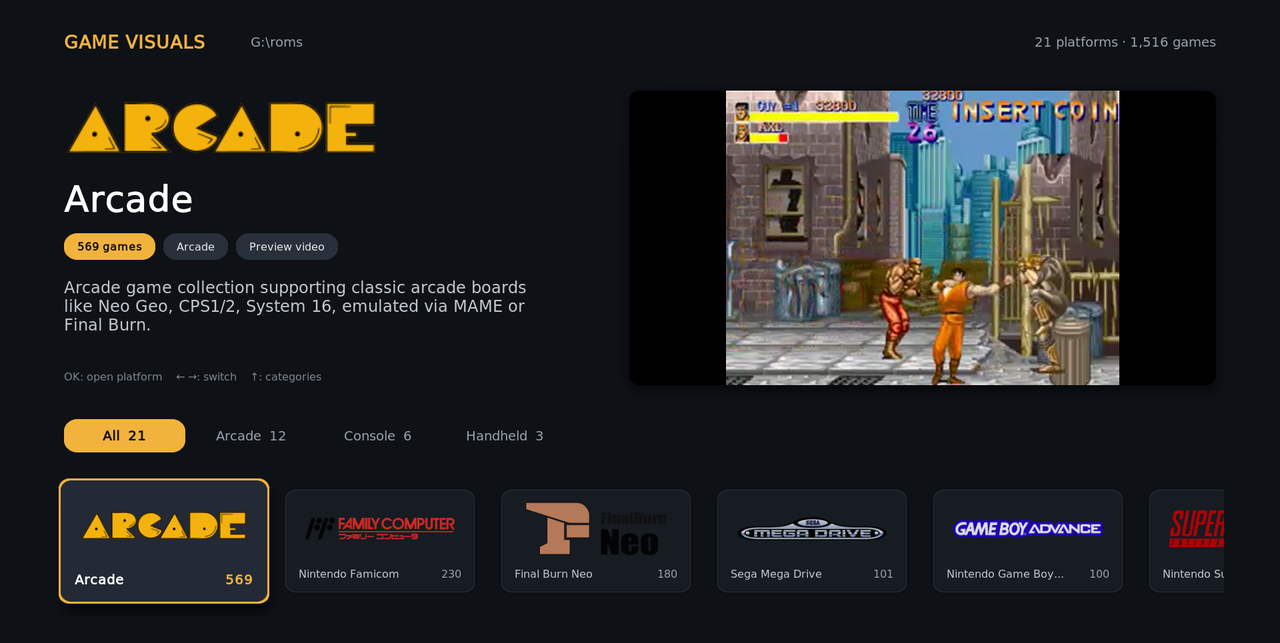
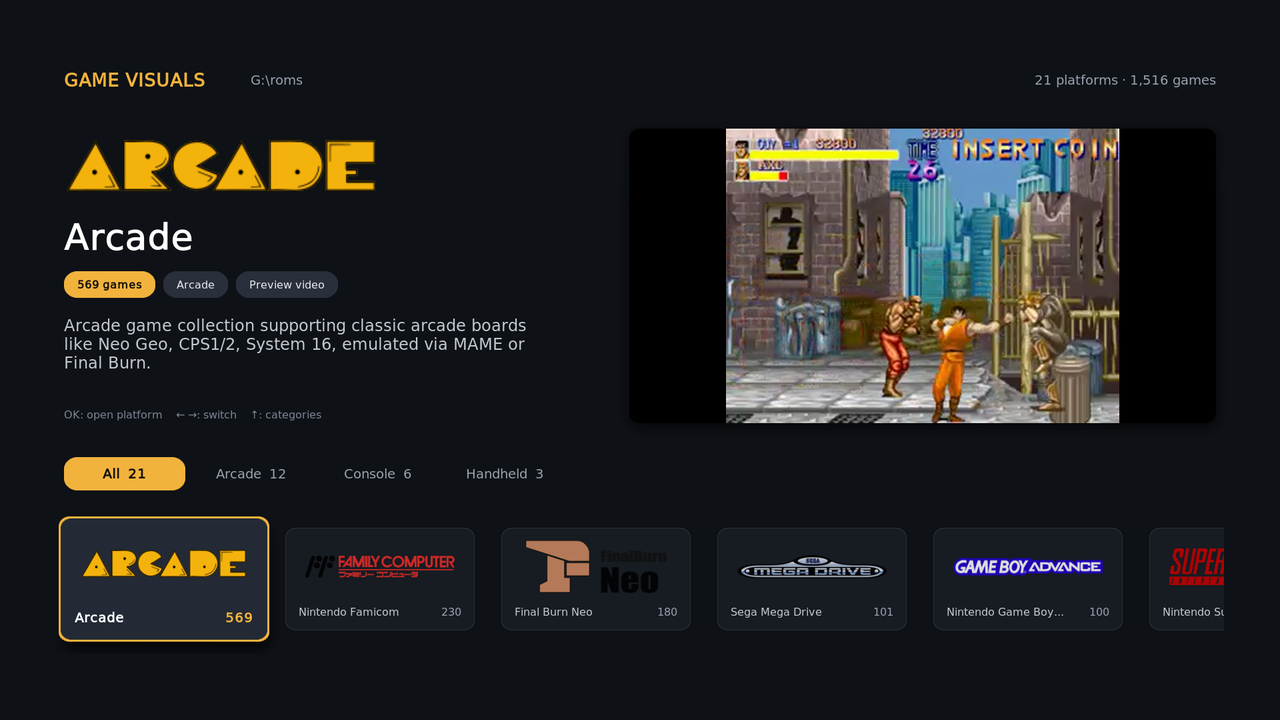
Keep platform screen responsive on slow drives
- Read a platform's images/videos folders outside the preview lock, so
  OK/Back no longer wait on slow USB reads.
- Show a cancellable progress dialog while scanning platforms.
- Pad platforms.png to 1280x720 to pass kodi-addon-checker.

diff --git a/resources/lib/platform_window.py b/resources/lib/platform_window.py
@@ -34,6 +34,14 @@ def list_media(directory, exts):
         return []
 
 
+def read_media(path):
+    """读取平台的截图和视频目录，U 盘上较慢，所以第一次停在这个平台上时才读"""
+    images_dir = os.path.join(path, "images")
+    # 有的 gamelist 把预览视频也放在 images 目录里（xxx-video.mp4）
+    return (list_media(images_dir, IMAGE_EXTS),
+            list_media(os.path.join(path, "videos"), VIDEO_EXTS) or list_media(images_dir, VIDEO_EXTS))
+
+
 def pick_screenshot(images):
     """ES 风格的 images 目录里同时有截图、封面和标题图，优先用截图"""
     shots = [p for p in images if any(k in os.path.basename(p).lower() for k in ("-image", "screenshot", "snap"))]
@@ -64,6 +72,9 @@ class PlatformWindow(xbmcgui.WindowXML):
         self.tabs = self.getControl(CONTROL_TABS)
         if not self.platforms:
             self.platforms = self.scan()
+            if self.platforms is None:
+                self.exit()
+                return
             if not self.platforms:
                 xbmcgui.Dialog().notification(addon.getAddonInfo("name"), addon.getLocalizedString(30350))
                 self.exit()
@@ -79,7 +90,7 @@ class PlatformWindow(xbmcgui.WindowXML):
             self.thread.start()
 
     def scan(self):
-        """列出有 ROM 的平台目录，按游戏数量从多到少排列"""
+        """列出有 ROM 的平台目录，按游戏数量从多到少排列；用户取消扫描时返回 None"""
         lang = ui_language()
         default_logo = os.path.join(addon.getAddonInfo("path"), "resources", "logos", "default.png")
         platforms = []
@@ -88,27 +99,45 @@ class PlatformWindow(xbmcgui.WindowXML):
         except OSError as e:
             log(f"Error reading directory {self.rom_dir}: {e}", xbmc.LOGWARNING)
             return []
-        for name in names:
-            path = os.path.join(self.rom_dir, name)
-            if not os.path.isdir(path) or is_skipped_folder(name) or not has_rom(path):
-                continue
-            files = os.listdir(path)
-            tracks = disc_track_files(path, files)
-            count = sum(1 for f in files if is_rom_file(f) and f.lower() not in tracks)
-            info = ROM_DIR_INFO.get(name.lower(), {})
-            logo = os.path.join(addon.getAddonInfo("path"), "resources", "logos", f"{name.lower()}.png")
-            category = platform_category(name)
-            platforms.append({
-                "path": path,
-                "name": info.get("full_name", name),
-                "count": count,
-                "category": category,
-                "plot": info.get("description_zh", "") if lang == "zh" else info.get("description_en", ""),
-                "logo": logo if os.path.exists(logo) else default_logo,
-            })
+        # U 盘上扫描可能要几十秒，显示进度，避免界面一直空着
+        progress = xbmcgui.DialogProgress()
+        progress.create(addon.getAddonInfo("name"), addon.getLocalizedString(30353))
+        try:
+            for i, name in enumerate(names):
+                if progress.iscanceled():
+                    log("Platform scan cancelled")
+                    return None
+                progress.update(i * 100 // len(names), f"{addon.getLocalizedString(30353)}[CR]{name}")
+                platform = self.scan_platform(name, lang, default_logo)
+                if platform:
+                    platforms.append(platform)
+        finally:
+            progress.close()
         platforms.sort(key=lambda p: (-p["count"], p["name"].lower()))
         log(f"Found {len(platforms)} platforms in {self.rom_dir}")
         return platforms
+
+    def scan_platform(self, name, lang, default_logo):
+        path = os.path.join(self.rom_dir, name)
+        try:
+            if not os.path.isdir(path) or is_skipped_folder(name) or not has_rom(path):
+                return None
+            files = os.listdir(path)
+        except OSError as e:
+            log(f"Error reading directory {path}: {e}", xbmc.LOGWARNING)
+            return None
+        tracks = disc_track_files(path, files)
+        count = sum(1 for f in files if is_rom_file(f) and f.lower() not in tracks)
+        info = ROM_DIR_INFO.get(name.lower(), {})
+        logo = os.path.join(addon.getAddonInfo("path"), "resources", "logos", f"{name.lower()}.png")
+        return {
+            "path": path,
+            "name": info.get("full_name", name),
+            "count": count,
+            "category": platform_category(name),
+            "plot": info.get("description_zh", "") if lang == "zh" else info.get("description_en", ""),
+            "logo": logo if os.path.exists(logo) else default_logo,
+        }
 
     def fill_tabs(self):
         items = []
@@ -146,19 +175,7 @@ class PlatformWindow(xbmcgui.WindowXML):
         images, videos = media
         li.setArt({"fanart": pick_screenshot(images)})
         li.setProperty("video", "true" if videos else "")
-
-    def load_media(self, li):
-        """第一次停在某个平台上时读取它的截图和视频目录，U 盘上较慢，所以不在扫描时做"""
-        path = li.getProperty("path")
-        media = self.media.get(path)
-        if media is None:
-            images_dir = os.path.join(path, "images")
-            # 有的 gamelist 把预览视频也放在 images 目录里（xxx-video.mp4）
-            media = (list_media(images_dir, IMAGE_EXTS),
-                     list_media(os.path.join(path, "videos"), VIDEO_EXTS) or list_media(images_dir, VIDEO_EXTS))
-            self.media[path] = media
-            self.apply_media(li, media)
-        return media
+        li.setProperty("media", "true")
 
     def is_preview_playing(self):
         player = xbmc.Player()
@@ -211,21 +228,38 @@ class PlatformWindow(xbmcgui.WindowXML):
                     focused_since = now
                     self.stop_preview()
                     continue
-                _, videos = self.load_media(li)
-                if not videos or now - focused_since < PREVIEW_DELAY:
+                media = self.media.get(path)
+                if media is not None:
+                    if not li.getProperty("media"):
+                        self.apply_media(li, media)
+                    self.play_preview(media[1], now, focused_since)
                     continue
-                if self.preview:
-                    # 一段视频播完后换一个随机游戏的视频接着播
-                    if self.is_preview_playing() or now - self.preview_started < 3:
-                        continue
-                    self.preview = None
-                # 用户自己在播放其它媒体时不打断
-                if xbmc.Player().isPlaying():
-                    continue
-                self.preview = random.choice(videos)
-                self.preview_started = now
-                log(f"Platform preview: {self.preview}")
-                xbmc.Player().play(self.preview, windowed=True)
+            # 读目录放在锁外面：U 盘上可能要好几秒，拿着锁会让确认键、返回键一直等着
+            media = read_media(path)
+            with self.lock:
+                self.media[path] = media
+                if self.closing:
+                    break
+                li = self.shelf.getSelectedItem()
+                if li and li.getProperty("path") == path:
+                    self.apply_media(li, media)
+
+    def play_preview(self, videos, now, focused_since):
+        """调用方持有 self.lock"""
+        if not videos or now - focused_since < PREVIEW_DELAY:
+            return
+        if self.preview:
+            # 一段视频播完后换一个随机游戏的视频接着播
+            if self.is_preview_playing() or now - self.preview_started < 3:
+                return
+            self.preview = None
+        # 用户自己在播放其它媒体时不打断
+        if xbmc.Player().isPlaying():
+            return
+        self.preview = random.choice(videos)
+        self.preview_started = now
+        log(f"Platform preview: {self.preview}")
+        xbmc.Player().play(self.preview, windowed=True)
 
     def open_platform(self, li):
         with self.lock:
